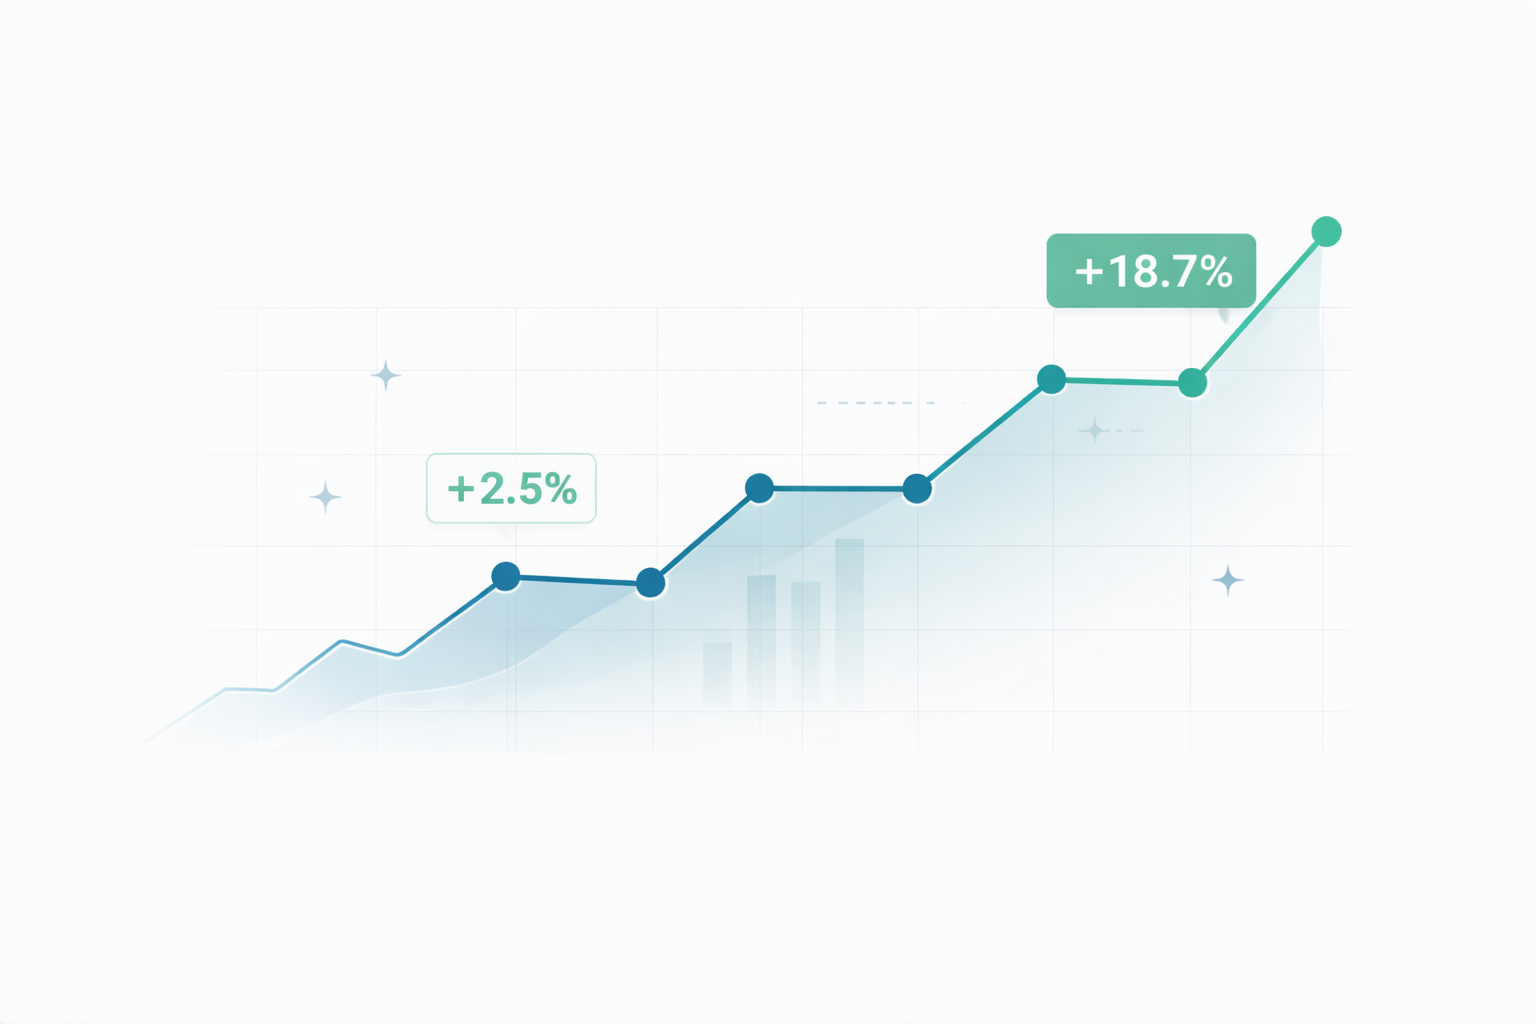
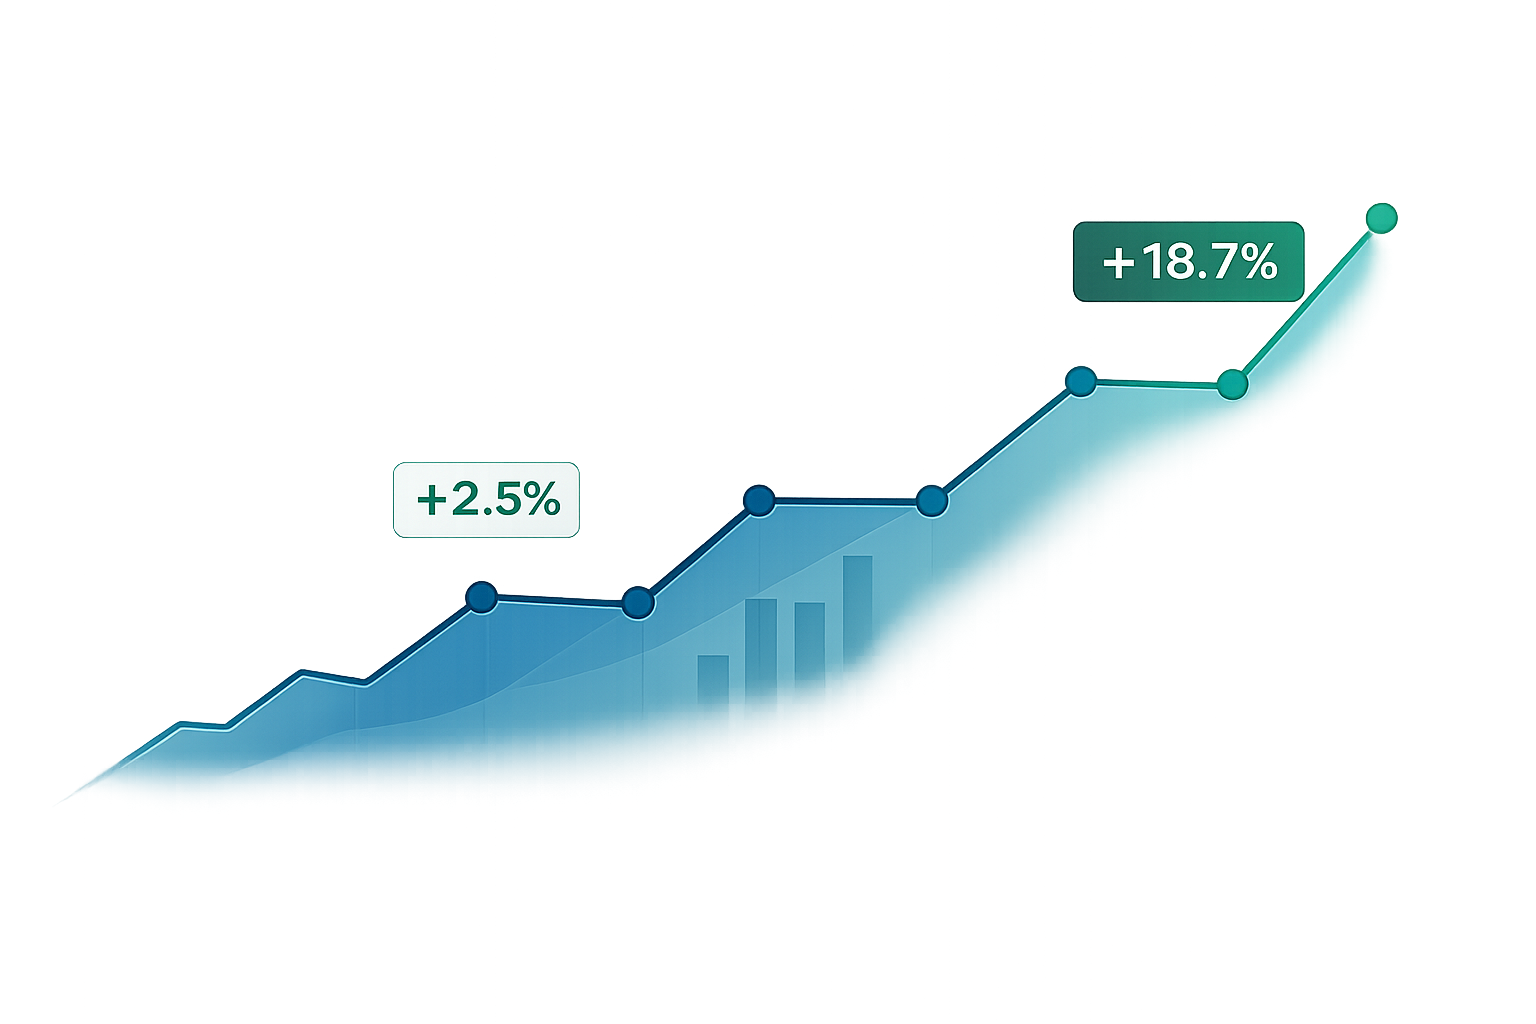
change of graph image

Changed region(s): [[0.0625, 0.1875, 0.9062, 0.7812], [0.7812, 0.5625, 0.8125, 0.5938], [0.1875, 0.4688, 0.2188, 0.5]]

diff --git a/src/components/AuthLayout.js b/src/components/AuthLayout.js
@@ -54,7 +54,7 @@ export default function AuthLayout() {
               </p>
             </div>
             <div className="graph-img">
-              <img src={`media/${!dark ? "graph" : "darkGraph"}.png`} alt="graph-image" />
+              <img src="media/graph.png" alt="graph-image" />
             </div>
           </div>
           <div className="signup-login toggle">
